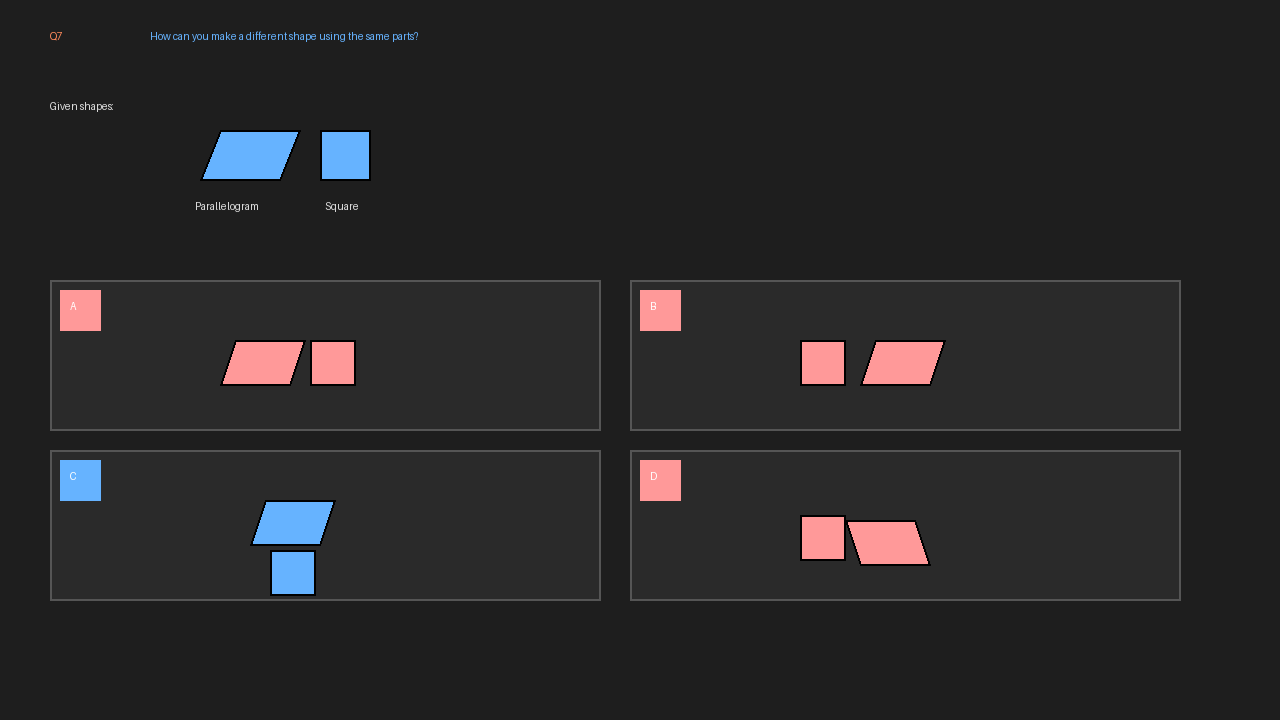
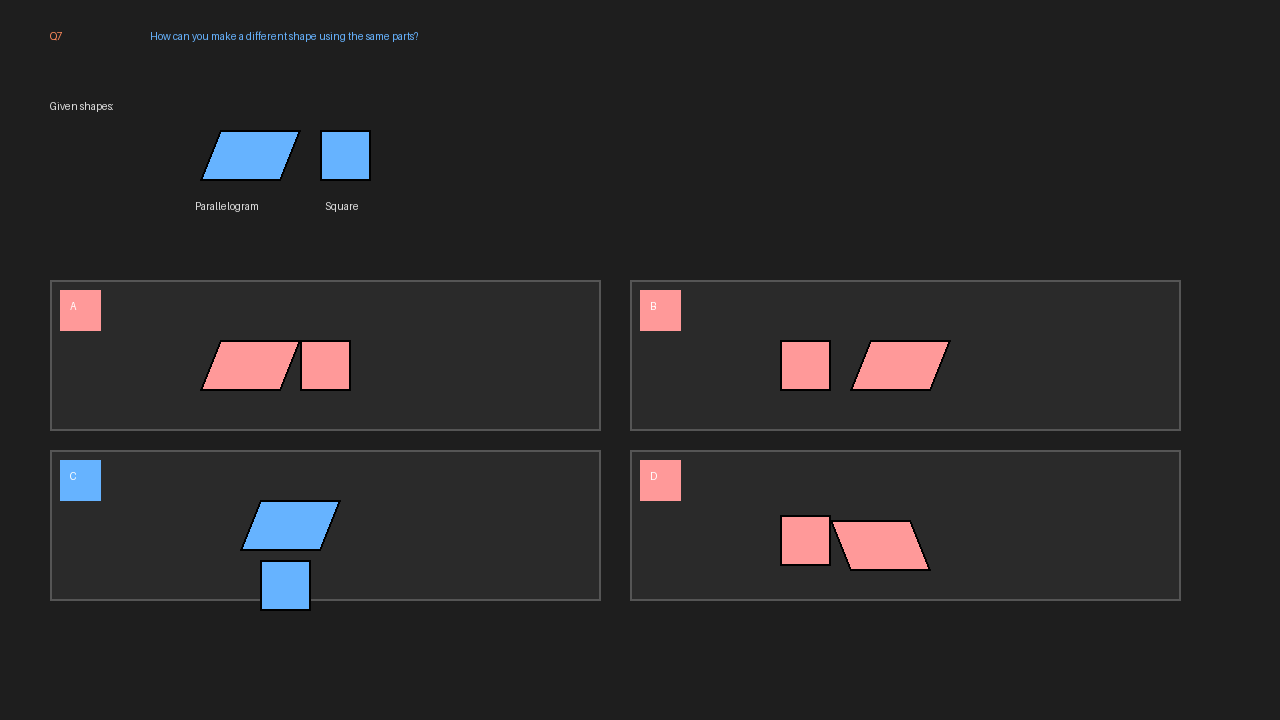
Fix Q6 and Q7 previews: triangle positioning and shape consistency

diff --git a/generate-previews.py b/generate-previews.py
@@ -91,13 +91,17 @@ def create_q6_preview():
     draw_hexagon(draw, 250, 350, 30, COLORS['shapeIncorrect'])
     draw_triangle(draw, 340, 330, 45, COLORS['shapeIncorrect'])
 
-    # Answer B - Transformation 2 CORRECT (triangle on top of hexagon)
+    # Answer B - Transformation 2 CORRECT (triangle on top of hexagon, touching not clipping)
     draw.rectangle([630, 280, 1180, 430], fill=hex_to_rgb(COLORS['muted']),
                    outline=hex_to_rgb(COLORS['border']), width=2)
     draw.rectangle([640, 290, 680, 330], fill=hex_to_rgb(COLORS['shapeCorrect']))
-    draw.text([650, 300], "B", fill=(255, 255, 255), font=None)
+    draw.text((650, 300), "B", fill=(255, 255, 255), font=None)
+    # Hexagon centered
     draw_hexagon(draw, 850, 370, 30, COLORS['shapeCorrect'])
-    draw_triangle(draw, 820, 320, 60, COLORS['shapeCorrect'])
+    # Triangle positioned above hexagon - bottom edge touching top of hexagon
+    # Hexagon top is at y=370-30=340, triangle height is ~52 (60*sqrt(3)/2)
+    # So triangle should start at y=340-52=288
+    draw_triangle(draw, 820, 288, 60, COLORS['shapeCorrect'])
 
     # Answer C - Transformation 3 (triangle below hexagon)
     draw.rectangle([50, 450, 600, 600], fill=hex_to_rgb(COLORS['muted']),
@@ -136,37 +140,38 @@ def create_q7_preview():
     draw_square(draw, 320, 130, 50, COLORS['shapeCorrect'])
     draw.text((325, 200), "Square", fill=hex_to_rgb(COLORS['text']), font=None)
 
-    # Answer A - Transformation 1
+    # Answer A - Transformation 1 (horizontal arrangement - use same dimensions)
     draw.rectangle([50, 280, 600, 430], fill=hex_to_rgb(COLORS['muted']),
                    outline=hex_to_rgb(COLORS['border']), width=2)
     draw.rectangle([60, 290, 100, 330], fill=hex_to_rgb(COLORS['shapeIncorrect']))
     draw.text((70, 300), "A", fill=(255, 255, 255), font=None)
-    draw_parallelogram(draw, 220, 340, 70, 45, 15, COLORS['shapeIncorrect'])
-    draw_square(draw, 310, 340, 45, COLORS['shapeIncorrect'])
+    draw_parallelogram(draw, 200, 340, 80, 50, 20, COLORS['shapeIncorrect'])
+    draw_square(draw, 300, 340, 50, COLORS['shapeIncorrect'])
 
-    # Answer B - Transformation 2
+    # Answer B - Transformation 2 (square then parallelogram - use same dimensions)
     draw.rectangle([630, 280, 1180, 430], fill=hex_to_rgb(COLORS['muted']),
                    outline=hex_to_rgb(COLORS['border']), width=2)
     draw.rectangle([640, 290, 680, 330], fill=hex_to_rgb(COLORS['shapeIncorrect']))
     draw.text((650, 300), "B", fill=(255, 255, 255), font=None)
-    draw_square(draw, 800, 340, 45, COLORS['shapeIncorrect'])
-    draw_parallelogram(draw, 860, 340, 70, 45, 15, COLORS['shapeIncorrect'])
+    draw_square(draw, 780, 340, 50, COLORS['shapeIncorrect'])
+    draw_parallelogram(draw, 850, 340, 80, 50, 20, COLORS['shapeIncorrect'])
 
-    # Answer C - Transformation 3 CORRECT (stacked vertically)
+    # Answer C - Transformation 3 CORRECT (stacked vertically - MUST USE SAME DIMENSIONS)
     draw.rectangle([50, 450, 600, 600], fill=hex_to_rgb(COLORS['muted']),
                    outline=hex_to_rgb(COLORS['border']), width=2)
     draw.rectangle([60, 460, 100, 500], fill=hex_to_rgb(COLORS['shapeCorrect']))
     draw.text((70, 470), "C", fill=(255, 255, 255), font=None)
-    draw_parallelogram(draw, 250, 500, 70, 45, 15, COLORS['shapeCorrect'])
-    draw_square(draw, 270, 550, 45, COLORS['shapeCorrect'])
+    # Use EXACT same dimensions as given shapes: parallelogram (80, 50, 20) and square (50)
+    draw_parallelogram(draw, 240, 500, 80, 50, 20, COLORS['shapeCorrect'])
+    draw_square(draw, 260, 560, 50, COLORS['shapeCorrect'])
 
-    # Answer D - Transformation 4
+    # Answer D - Transformation 4 (diagonal/offset arrangement - use same dimensions)
     draw.rectangle([630, 450, 1180, 600], fill=hex_to_rgb(COLORS['muted']),
                    outline=hex_to_rgb(COLORS['border']), width=2)
     draw.rectangle([640, 460, 680, 500], fill=hex_to_rgb(COLORS['shapeIncorrect']))
     draw.text((650, 470), "D", fill=(255, 255, 255), font=None)
-    draw_square(draw, 800, 515, 45, COLORS['shapeIncorrect'])
-    draw_parallelogram(draw, 860, 520, 70, 45, -15, COLORS['shapeIncorrect'])
+    draw_square(draw, 780, 515, 50, COLORS['shapeIncorrect'])
+    draw_parallelogram(draw, 850, 520, 80, 50, -20, COLORS['shapeIncorrect'])
 
     img.save('preview-q7.png')
     print("✓ Created preview-q7.png")
